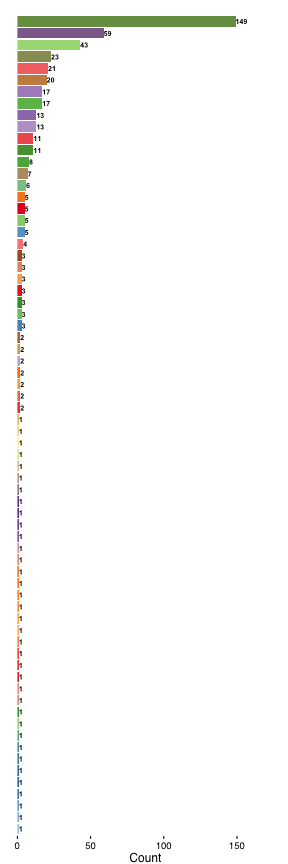
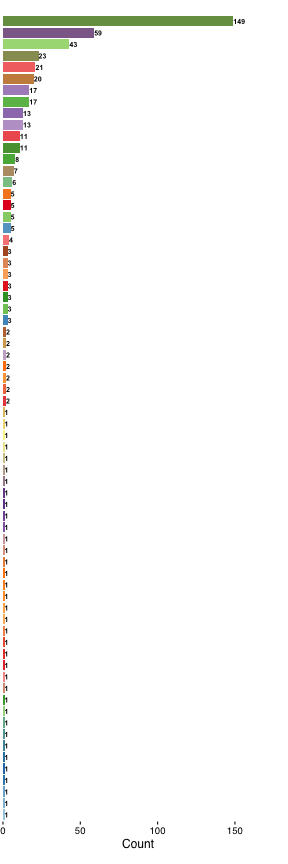
update figure margins

diff --git a/_posts/2016-02-10-recreating-fig-3.md b/_posts/2016-02-10-recreating-fig-3.md
@@ -104,14 +104,15 @@ bars <- ggplot(mlg_order, aes(x = MLG, y = Count, fill = MLG)) +
   theme(legend.position = "none") +
   theme(text = element_text(family = "Helvetica")) +
   theme(axis.title.y = element_blank()) +
-  theme(plot.margin = unit(c(1, 1, 0, 1), "lines")) + 
+  # From the documentation for theme: top, right, bottom, left
+  theme(plot.margin = unit(c(1, 1, 1, 0), "lines")) + 
   scale_x_discrete(limits = mlg_order$MLG) +
   coord_flip()
 
 bars
 {% endhighlight %}
 
-![plot of chunk barplot](http://zkamvar.github.io/figures/2016-02-10-recreating-fig-3/barplot-1.png)
+<img src="http://zkamvar.github.io/figures/2016-02-10-recreating-fig-3/barplot-1.png" title="plot of chunk barplot" alt="plot of chunk barplot" style="display: block; margin: auto;" />
 
 Creating the Subway plot
 ------------------------
@@ -126,22 +127,34 @@ mlg_range <- mlg.crosspop(ramdat, mlgsub = unique(mll(ramdat)),
 names(mlg_range)[2] <- "Year"
 
 # Creating the subway plot
-(ranges <- ggplot(mlg_range, aes(x = Year, y = MLG, group = MLG, color = MLG)) + 
+ranges <- ggplot(mlg_range, aes(x = Year, y = MLG, group = MLG, color = MLG)) + 
   geom_line(size = 1, linetype = 1) + 
   geom_point(size = 5, pch = 21, fill = "white") +
   geom_text(aes(label = Count), color = "black", size = 2.5) + 
   scale_color_manual(values = myPal) + 
   ylab("Multilocus Genotype") +
   theme_bw() + 
-  theme(axis.text.x = element_text(angle = 90, hjust = 1, vjust = 0.5),
-        text = element_text(family = "Helvetica"),
-        legend.position = "none",
-        axis.line = element_line(colour = "black"),
-        plot.margin = unit(c(1, 0, 1, 1), "lines")) +
-  scale_y_discrete(limits = mlg_order$MLG))
+  theme(axis.text.x = element_text(angle = 90, hjust = 1, vjust = 0.5)) +
+  theme(text = element_text(family = "Helvetica")) +
+  theme(legend.position = "none") +
+  theme(axis.line = element_line(colour = "black")) +
+  # From the documentation for theme: top, right, bottom, left
+  theme(plot.margin = unit(c(1, 0, 1, 1), "lines")) +
+  scale_y_discrete(limits = mlg_order$MLG)
+
+ranges
 {% endhighlight %}
 
-![plot of chunk subwayplot](http://zkamvar.github.io/figures/2016-02-10-recreating-fig-3/subwayplot-1.png)
+<img src="http://zkamvar.github.io/figures/2016-02-10-recreating-fig-3/subwayplot-1.png" title="plot of chunk subwayplot" alt="plot of chunk subwayplot" style="display: block; margin: auto;" />
+
+> **A word on margins**
+> 
+> Cowplot is nice for placing the ggplot objects next to each other in one
+> frame, but it likes to give them room to spread out. To get the plots as close
+> together as possible, I'm cutting out the left and right margins of the
+> barplot and subway plot, respectively. This is done with the `plot.margin`
+> argument to `theme()` which organizes the widths as **top**, **right**,
+> **bottom**, **left**.
 
 
 Aligning with cowplot
@@ -159,7 +172,7 @@ over to the other in 2 minutes in inkscape.
 plot_grid(ranges, bars, align = "h", rel_widths = c(2.5, 1))
 {% endhighlight %}
 
-![plot of chunk cowplot](http://zkamvar.github.io/figures/2016-02-10-recreating-fig-3/cowplot-1.png)
+<img src="http://zkamvar.github.io/figures/2016-02-10-recreating-fig-3/cowplot-1.png" title="plot of chunk cowplot" alt="plot of chunk cowplot" style="display: block; margin: auto;" />
 
 Conclusion
 ==========
